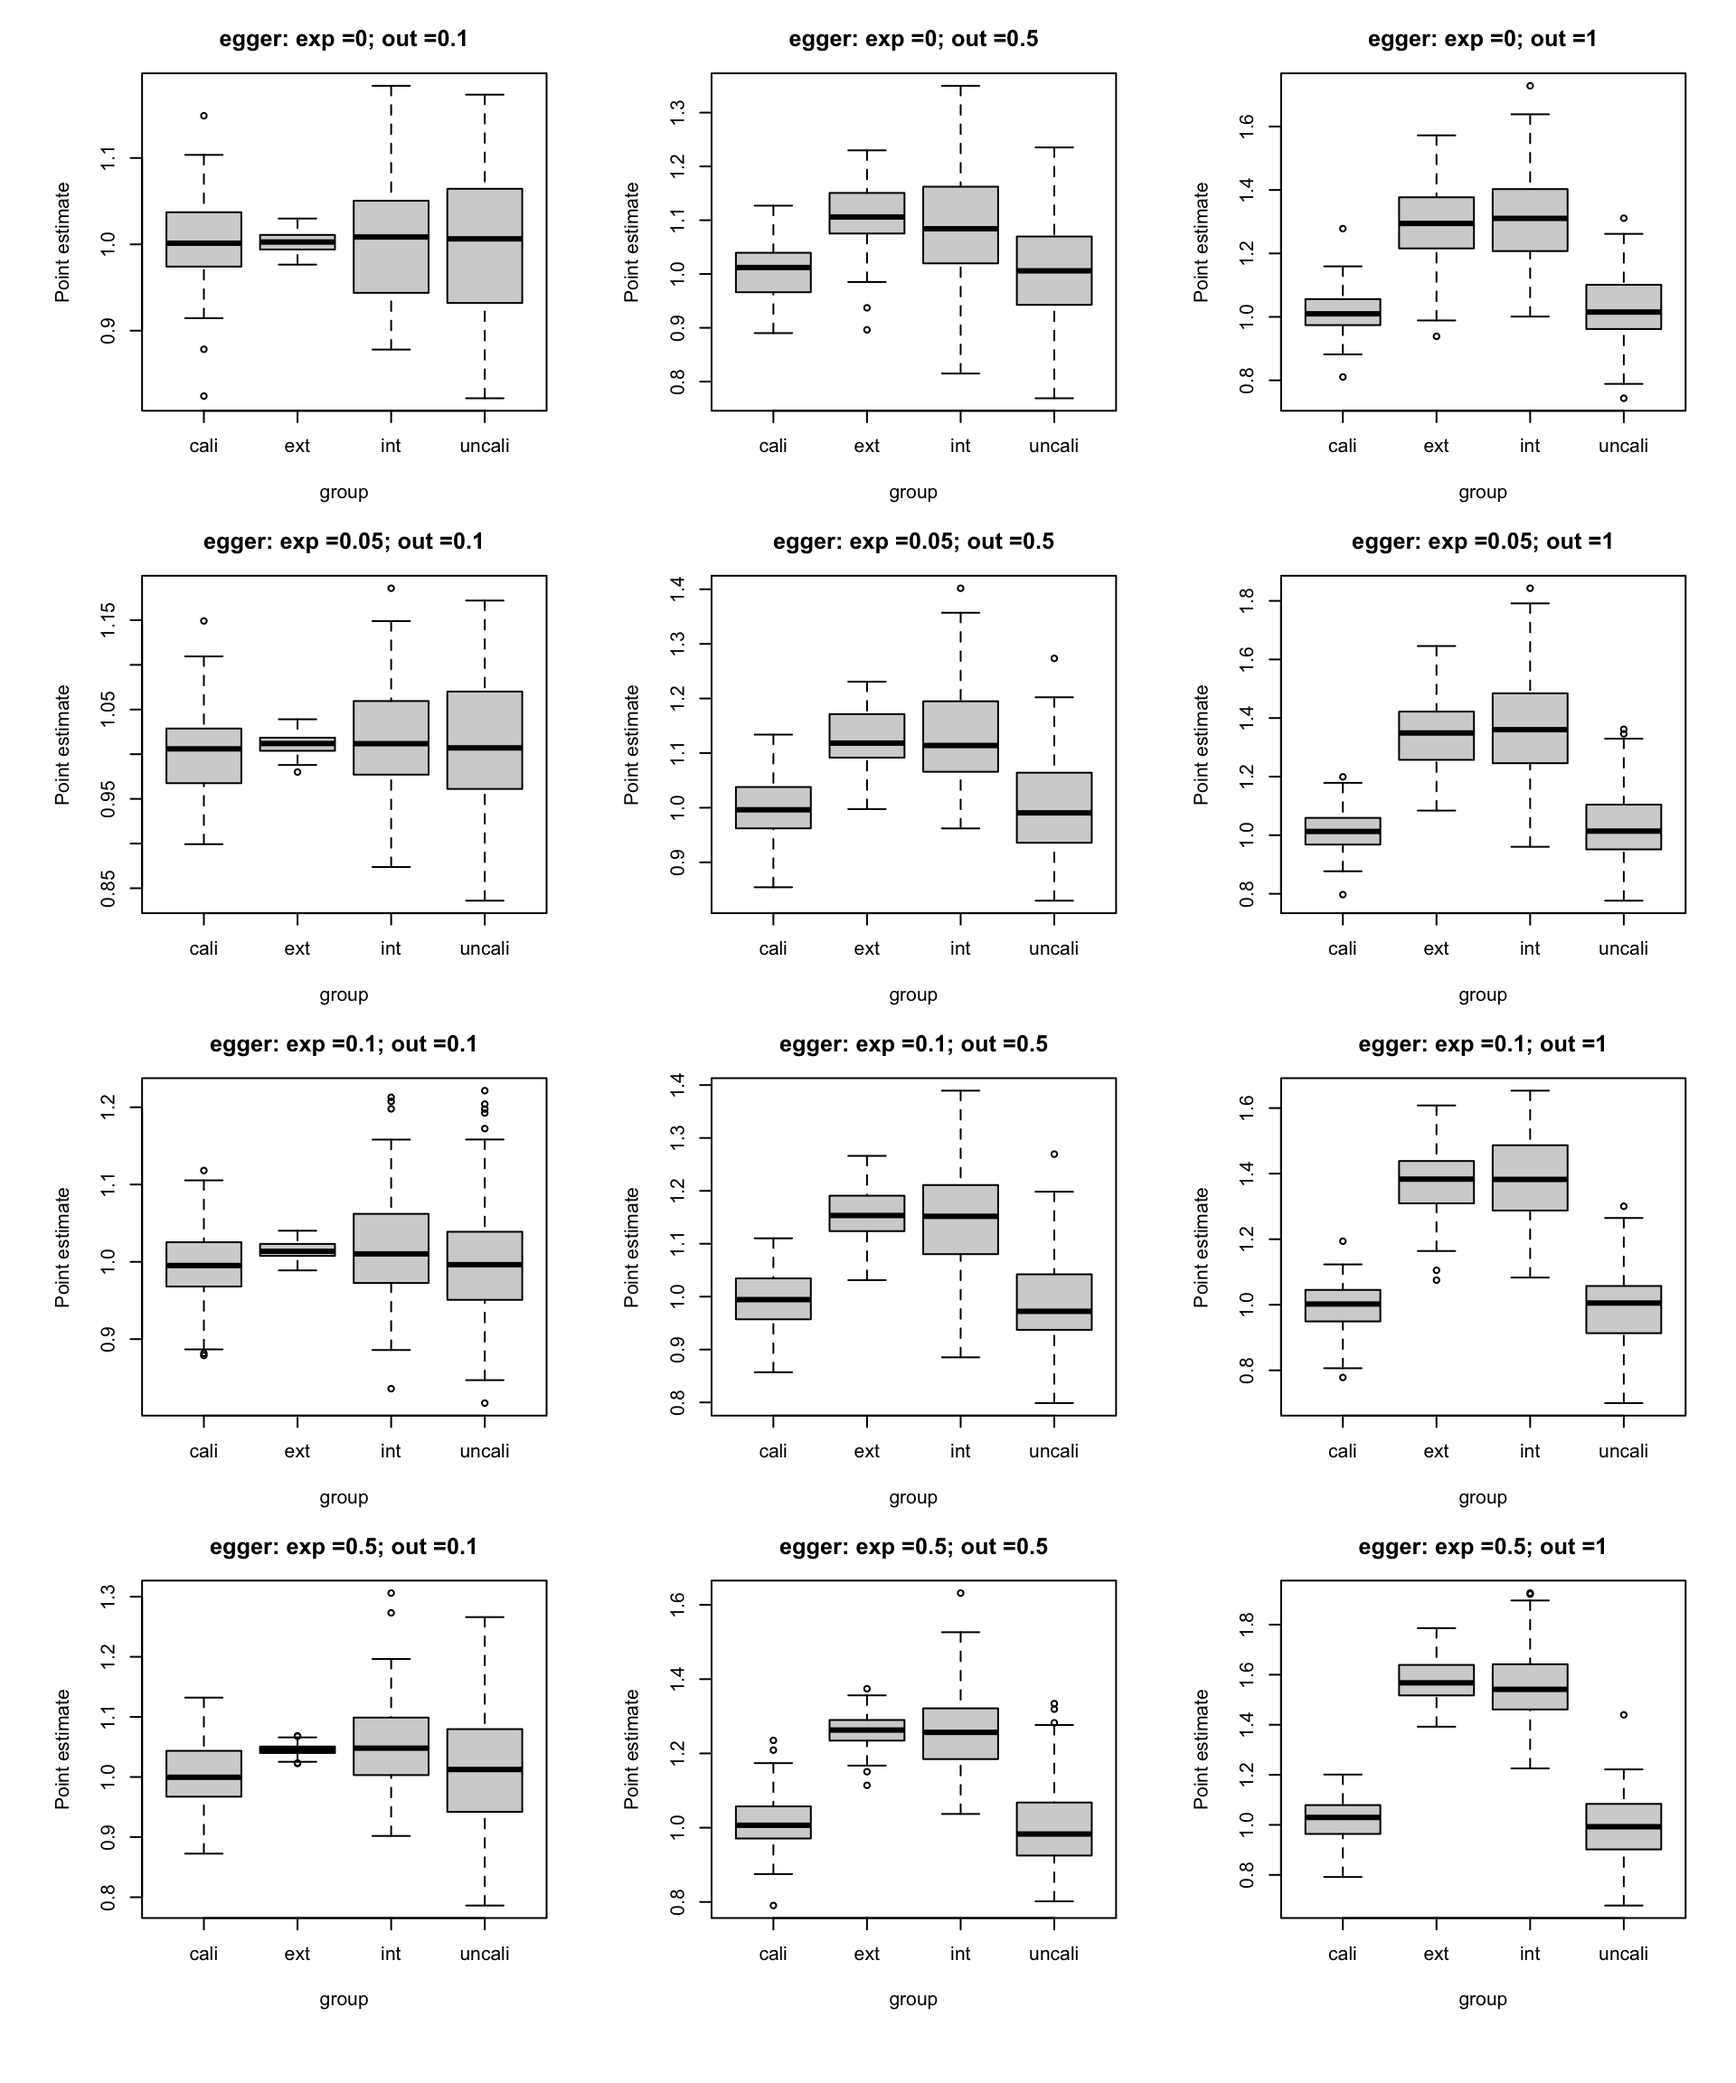
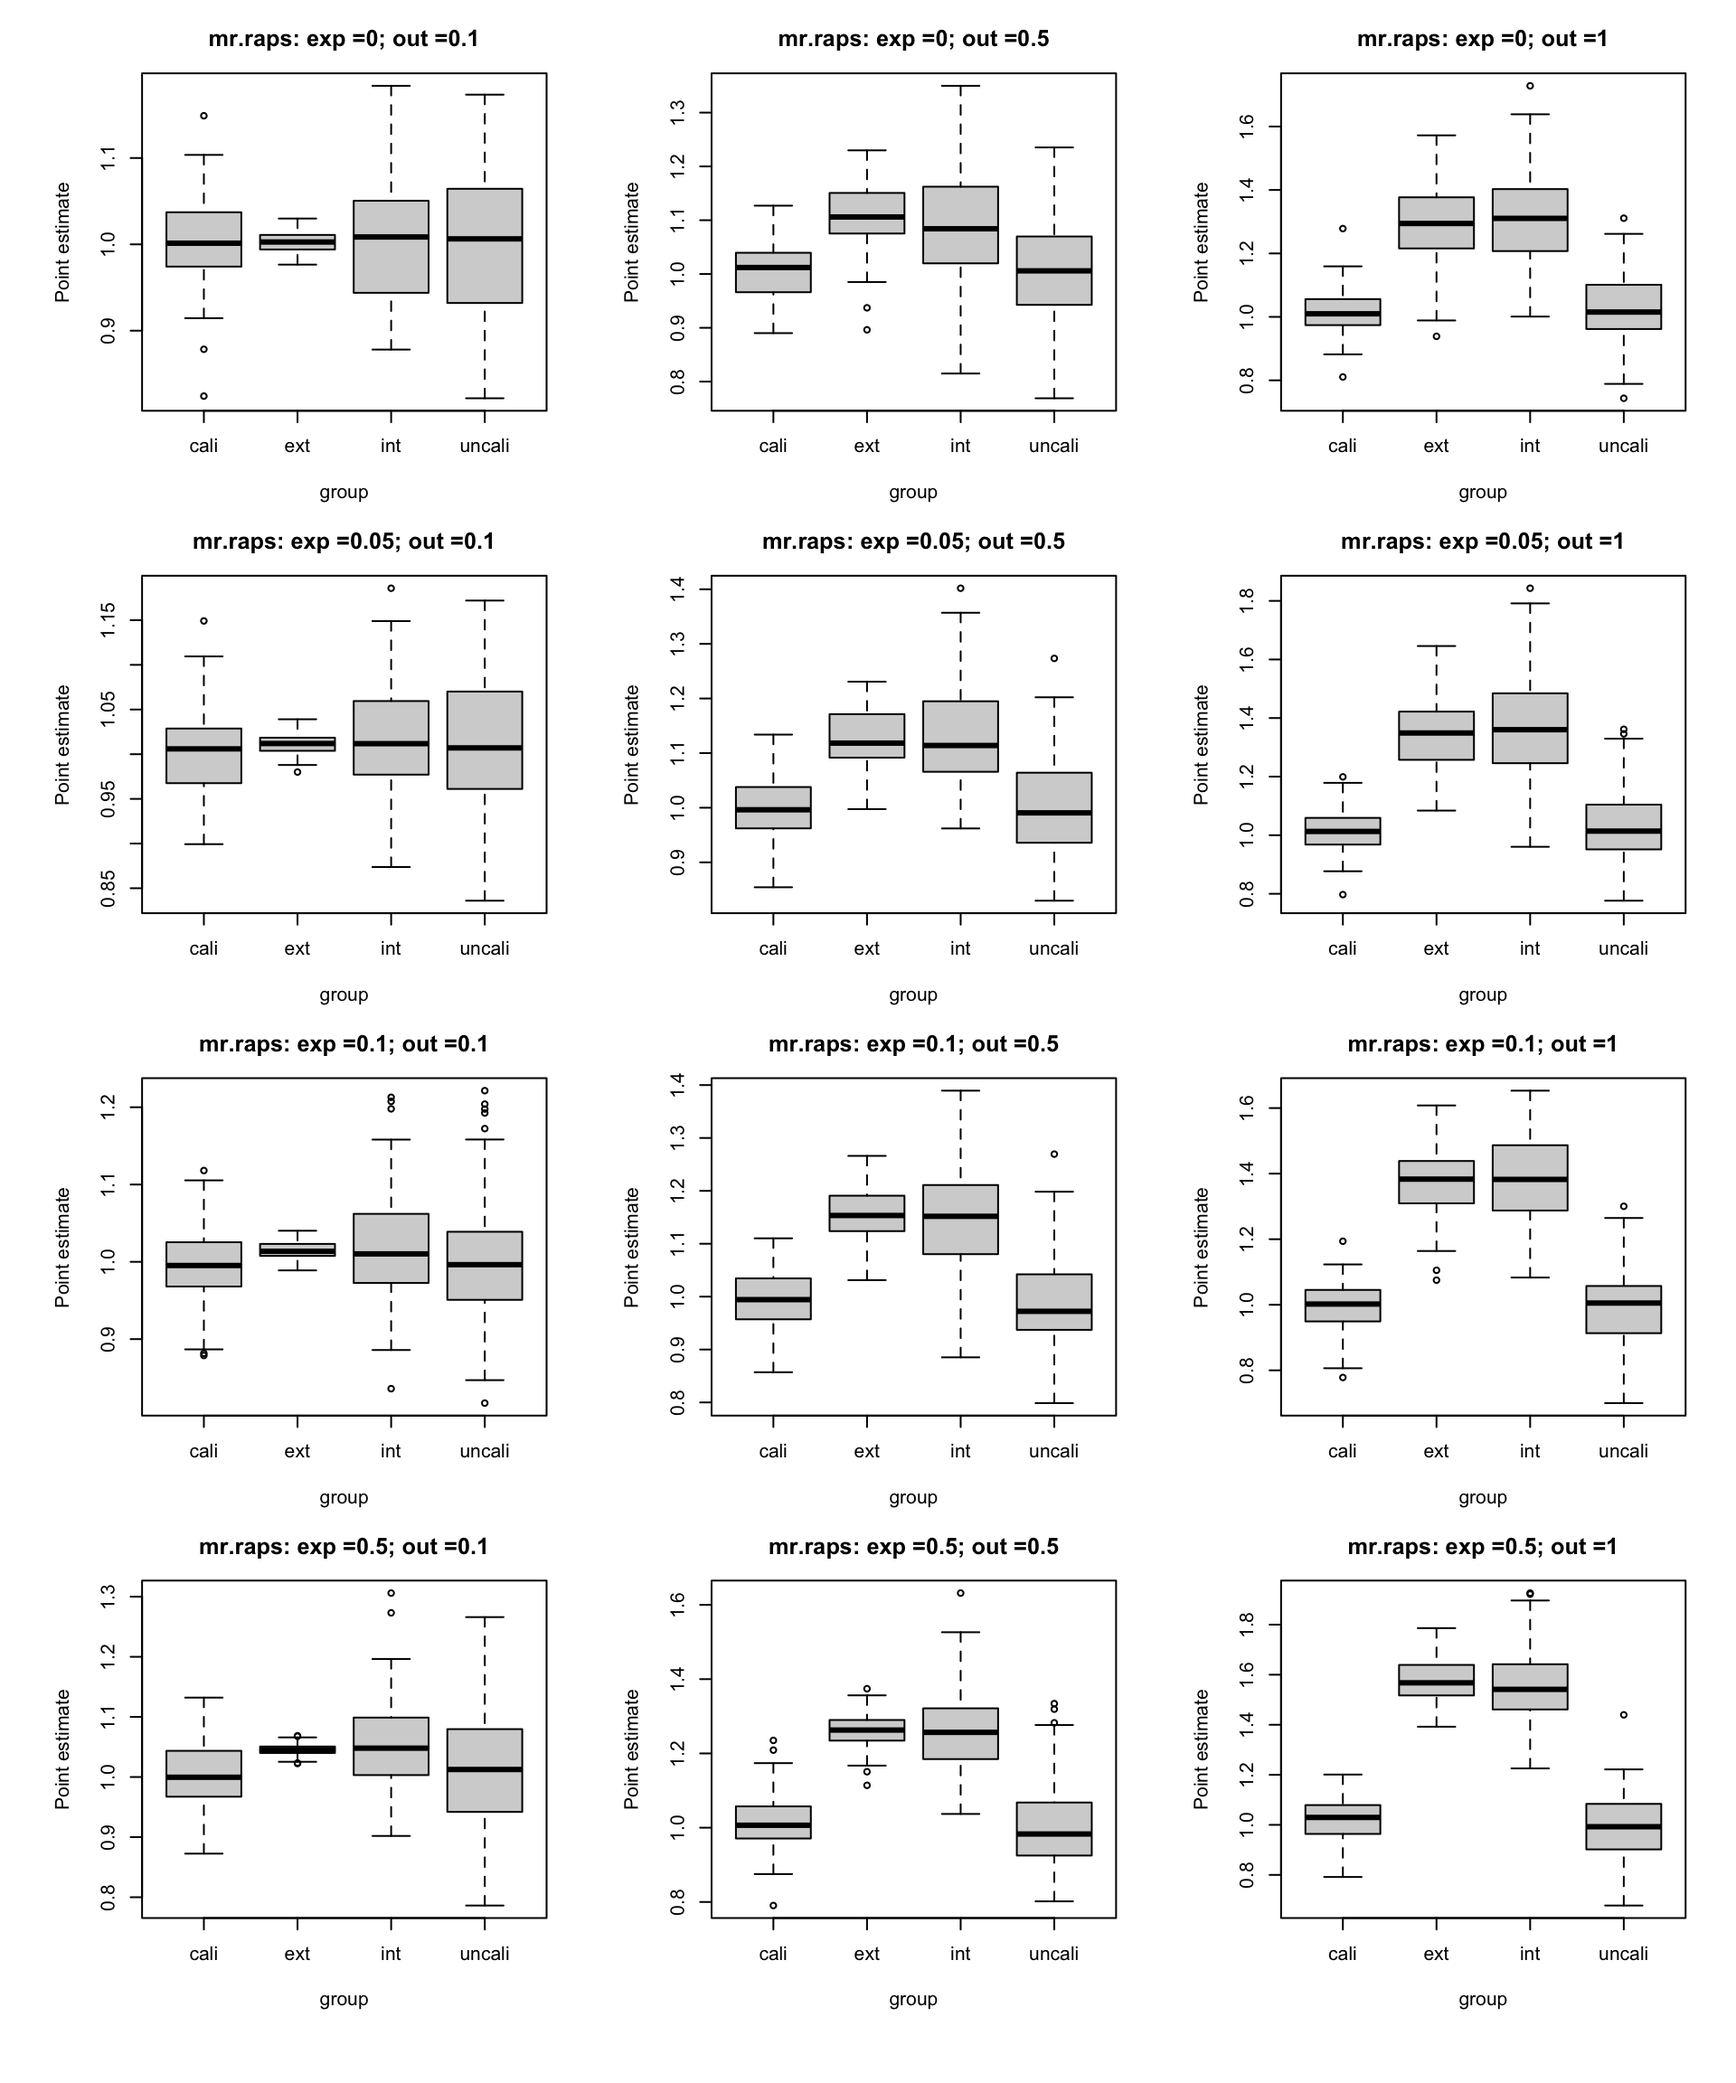
Build site.

diff --git a/docs/mr_result.html b/docs/mr_result.html
@@ -475,16 +475,16 @@ This reproducible <a href="http://rmarkdown.rstudio.com">R Markdown</a> analysis
 <div class="panel panel-default">
 <div class="panel-heading">
 <p class="panel-title">
-<a data-toggle="collapse" data-parent="#workflowr-checks" href="#strongRepositoryversionstrongahrefhttpsgithubcomyunqiyang0215simulationcalibratedmrtree15edcb62656b6bb7d8e91e7add5fa75ab7120867targetblank15edcb6a"> <span class="glyphicon glyphicon-ok text-success" aria-hidden="true"></span> <strong>Repository version:</strong> <a href="https://github.com/yunqiyang0215/simulation-calibrated-mr/tree/15edcb62656b6bb7d8e91e7add5fa75ab7120867" target="_blank">15edcb6</a> </a>
+<a data-toggle="collapse" data-parent="#workflowr-checks" href="#strongRepositoryversionstrongahrefhttpsgithubcomyunqiyang0215simulationcalibratedmrtree443ae5c5ca387d60450ee8f15bf3e8f37e5b1313targetblank443ae5ca"> <span class="glyphicon glyphicon-ok text-success" aria-hidden="true"></span> <strong>Repository version:</strong> <a href="https://github.com/yunqiyang0215/simulation-calibrated-mr/tree/443ae5c5ca387d60450ee8f15bf3e8f37e5b1313" target="_blank">443ae5c</a> </a>
 </p>
 </div>
[2 lines of base64/hex data omitted]
 <div class="panel-body">
 <p>
 Great! You are using Git for version control. Tracking code development and connecting the code version to the results is critical for reproducibility.
 </p>
 <p>
-The results in this page were generated with repository version <a href="https://github.com/yunqiyang0215/simulation-calibrated-mr/tree/15edcb62656b6bb7d8e91e7add5fa75ab7120867" target="_blank">15edcb6</a>. See the <em>Past versions</em> tab to see a history of the changes made to the R Markdown and HTML files.
+The results in this page were generated with repository version <a href="https://github.com/yunqiyang0215/simulation-calibrated-mr/tree/443ae5c5ca387d60450ee8f15bf3e8f37e5b1313" target="_blank">443ae5c</a>. See the <em>Past versions</em> tab to see a history of the changes made to the R Markdown and HTML files.
 </p>
 <p>
 Note that you need to be careful to ensure that all relevant files for the analysis have been committed to Git prior to generating the results (you can use <code>wflow_publish</code> or <code>wflow_git_commit</code>). workflowr only checks the R Markdown file, but you know if there are other scripts or data files that it depends on. Below is the status of the Git repository when the results were generated:
@@ -540,6 +540,40 @@ Message
 </tr>
 </thead>
 <tbody>
+<tr>
+<td>
+Rmd
+</td>
+<td>
+<a href="https://github.com/yunqiyang0215/simulation-calibrated-mr/blob/443ae5c5ca387d60450ee8f15bf3e8f37e5b1313/analysis/mr_result.Rmd" target="_blank">443ae5c</a>
+</td>
+<td>
+yunqiyang0215
+</td>
+<td>
+2023-07-30
+</td>
+<td>
+wflow_publish("analysis/mr_result.Rmd")
+</td>
+</tr>
+<tr>
+<td>
+html
+</td>
+<td>
+<a href="https://rawcdn.githack.com/yunqiyang0215/simulation-calibrated-mr/c9805587d91bdbcaaeb6f659cbe76cf9fd42947c/docs/mr_result.html" target="_blank">c980558</a>
+</td>
+<td>
+yunqiyang0215
+</td>
+<td>
+2023-07-30
+</td>
+<td>
+Build site.
+</td>
+</tr>
 <tr>
 <td>
 html
@@ -936,7 +970,7 @@ for (i in 1:length(r1)){
             res$mr.point_est[res$fit.method == &quot;unadj_int&quot;]
             )
     group = c(rep(&quot;cali&quot;, n_rep), rep(&quot;uncali&quot;, n_rep), rep(&quot;ext&quot;, n_rep), rep(&quot;int&quot;, n_rep))
-    boxplot(val ~ group, ylab = &quot;Point estimate&quot;, main = paste0(&quot;egger: exp =&quot;, r1[i], &quot;; out =&quot;, r2[j]))
+    boxplot(val ~ group, ylab = &quot;Point estimate&quot;, main = paste0(&quot;ivw: exp =&quot;, r1[i], &quot;; out =&quot;, r2[j]))
   }
 }</code></pre>
 <p><img src="figure/mr_result.Rmd/unnamed-chunk-4-1.png" width="960" style="display: block; margin: auto;" /></p>
@@ -1065,7 +1099,7 @@ for (i in 1:length(r1)){
             res$mr.point_est[res$fit.method == &quot;unadj_int&quot;]
             )
     group = c(rep(&quot;cali&quot;, n_rep), rep(&quot;uncali&quot;, n_rep), rep(&quot;ext&quot;, n_rep), rep(&quot;int&quot;, n_rep))
-    boxplot(val ~ group, ylab = &quot;Point estimate&quot;, main = paste0(&quot;egger: exp =&quot;, r1[i], &quot;; out =&quot;, r2[j]))
+    boxplot(val ~ group, ylab = &quot;Point estimate&quot;, main = paste0(&quot;mr.raps: exp =&quot;, r1[i], &quot;; out =&quot;, r2[j]))
   }
 }</code></pre>
 <p><img src="figure/mr_result.Rmd/unnamed-chunk-5-1.png" width="960" style="display: block; margin: auto;" /></p>
